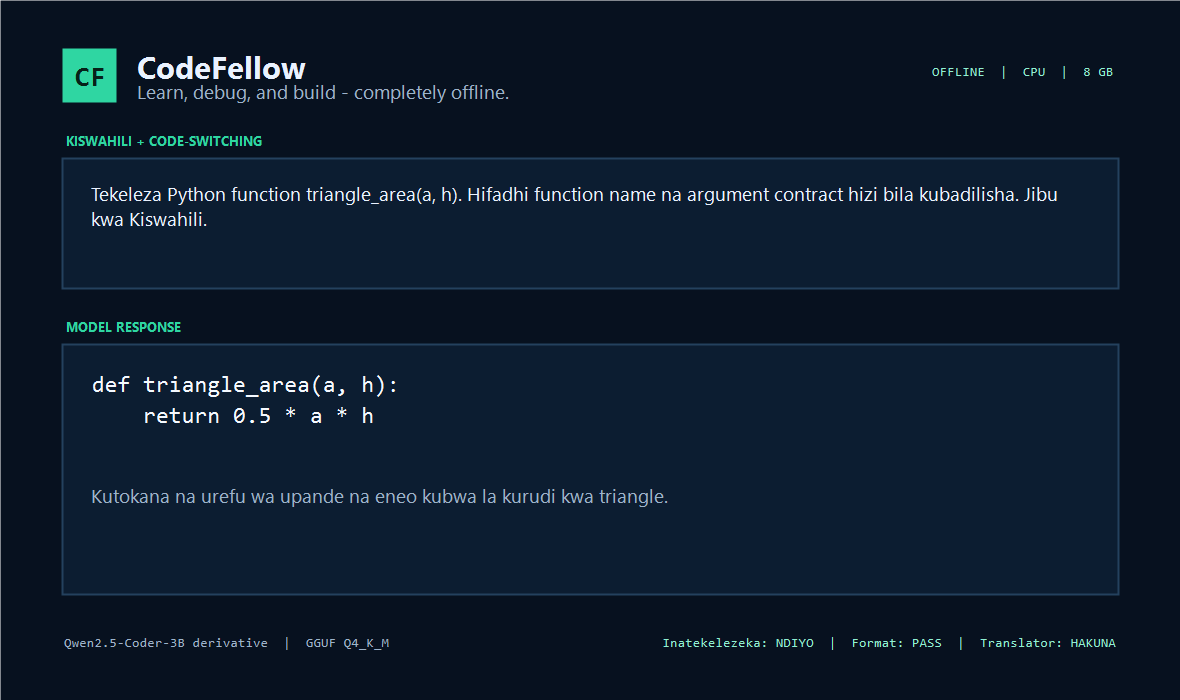
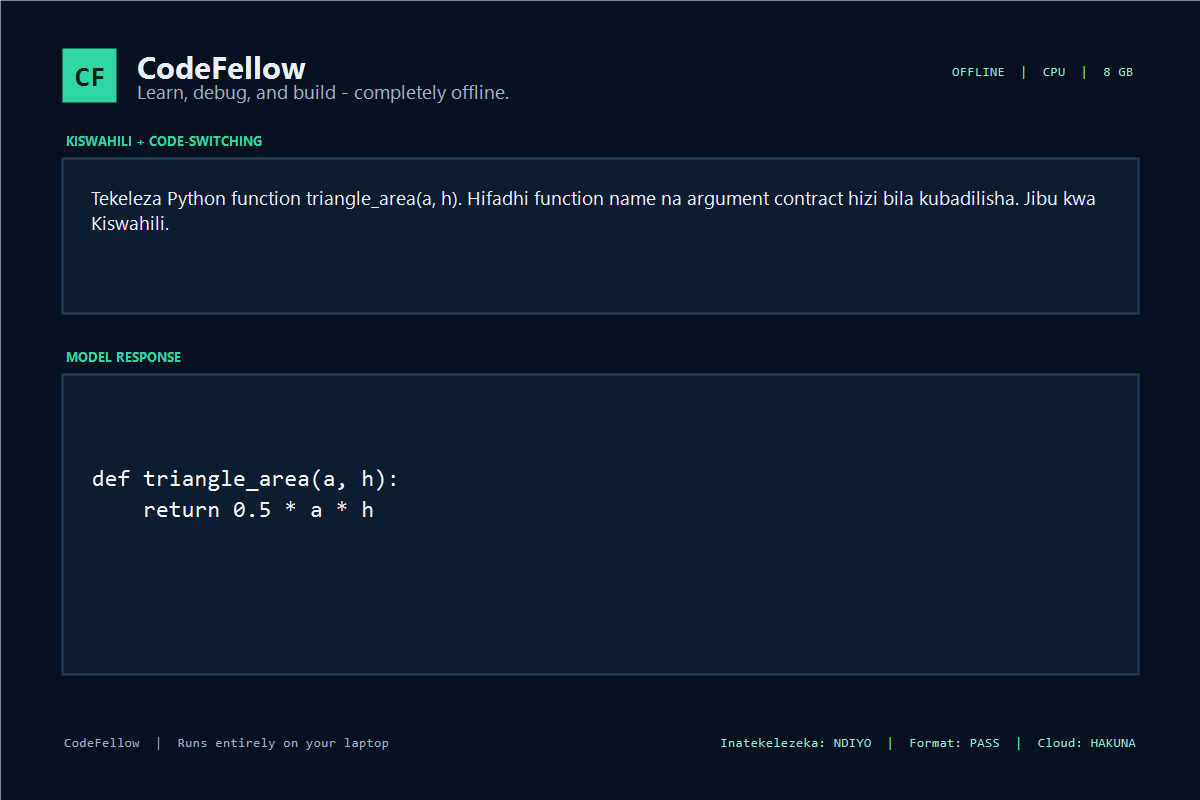
Refine submission media for Devpost

diff --git a/docs/demo/english.html b/docs/demo/english.html
@@ -8,7 +8,7 @@
     :root { color-scheme: dark; font-family: Inter, ui-sans-serif, system-ui, sans-serif; }
     * { box-sizing: border-box; }
     body { margin: 0; min-height: 100vh; background: #07111f; color: #eaf2ff; display: grid; place-items: center; }
-    main { width: 1180px; min-height: 700px; padding: 54px 62px; background: radial-gradient(circle at 92% 8%, #16395e 0, transparent 36%), linear-gradient(145deg, #091729, #07111f 70%); }
+    main { width: 1200px; min-height: 800px; padding: 54px 62px; background: #07111f; }
     header { display: flex; align-items: center; justify-content: space-between; margin-bottom: 40px; }
     .brand { display: flex; align-items: center; gap: 16px; }
     .logo { width: 50px; height: 50px; border-radius: 15px; display: grid; place-items: center; background: #2fd6a2; color: #062118; font: 800 27px ui-monospace, monospace; }
@@ -38,7 +38,7 @@
     <span class="kw">return</span> [x <span class="kw">for</span> x <span class="kw">in</span> l <span class="kw">if</span> x &gt; <span class="num">0</span>]</pre>
     <p class="explanation">The approach is to use a list comprehension to iterate over the input list and include only elements greater than zero.</p>
   </section>
-  <footer><span>Qwen2.5-Coder-3B derivative · Q4_K_M</span><span>Executable ✓ &nbsp; Format contract ✓ &nbsp; No postprocessing ✓</span></footer>
+  <footer><span>CodeFellow · Runs entirely on your laptop</span><span>Executable ✓ &nbsp; Format contract ✓ &nbsp; No postprocessing ✓</span></footer>
 </main>
 </body>
 </html>

diff --git a/docs/demo/kiswahili.html b/docs/demo/kiswahili.html
@@ -8,7 +8,7 @@
     :root { color-scheme: dark; font-family: Inter, ui-sans-serif, system-ui, sans-serif; }
     * { box-sizing: border-box; }
     body { margin: 0; min-height: 100vh; background: #07111f; color: #eaf2ff; display: grid; place-items: center; }
-    main { width: 1180px; min-height: 700px; padding: 54px 62px; background: radial-gradient(circle at 92% 8%, #244b3a 0, transparent 36%), linear-gradient(145deg, #091729, #07111f 70%); }
+    main { width: 1200px; min-height: 800px; padding: 54px 62px; background: #07111f; }
     header { display: flex; align-items: center; justify-content: space-between; margin-bottom: 40px; }
     .brand { display: flex; align-items: center; gap: 16px; }
     .logo { width: 50px; height: 50px; border-radius: 15px; display: grid; place-items: center; background: #2fd6a2; color: #062118; font: 800 27px ui-monospace, monospace; }
@@ -38,7 +38,7 @@
     <span class="kw">return</span> <span class="num">0.5</span> * a * h</pre>
     <p class="explanation">Kutokana na urefu wa upande na eneo kubwa la kurudi kwa triangle.</p>
   </section>
-  <footer><span>Qwen2.5-Coder-3B derivative · Q4_K_M</span><span>Inatekelezeka ✓ &nbsp; Format sahihi ✓ &nbsp; Hakuna translator ✓</span></footer>
+  <footer><span>CodeFellow · Runs entirely on your laptop</span><span>Inatekelezeka ✓ &nbsp; Format sahihi ✓ &nbsp; Hakuna cloud ✓</span></footer>
 </main>
 </body>
 </html>

diff --git a/README.md b/README.md
@@ -8,7 +8,9 @@ The project targets the ADTC Standard Laptop: four CPU cores, 8 GB RAM, integrat
 
 ## Audited demo outputs
 
-These cards reproduce the exact executable responses saved in
+![CodeFellow offline coding tutor](docs/demo/codefellow-cover.png)
+
+The response cards use executable code recorded in
 `benchmark-results/submission-2026/declared-prompt-evidence.json`.
 
 ![CodeFellow English demo](docs/demo/codefellow-english.png)
